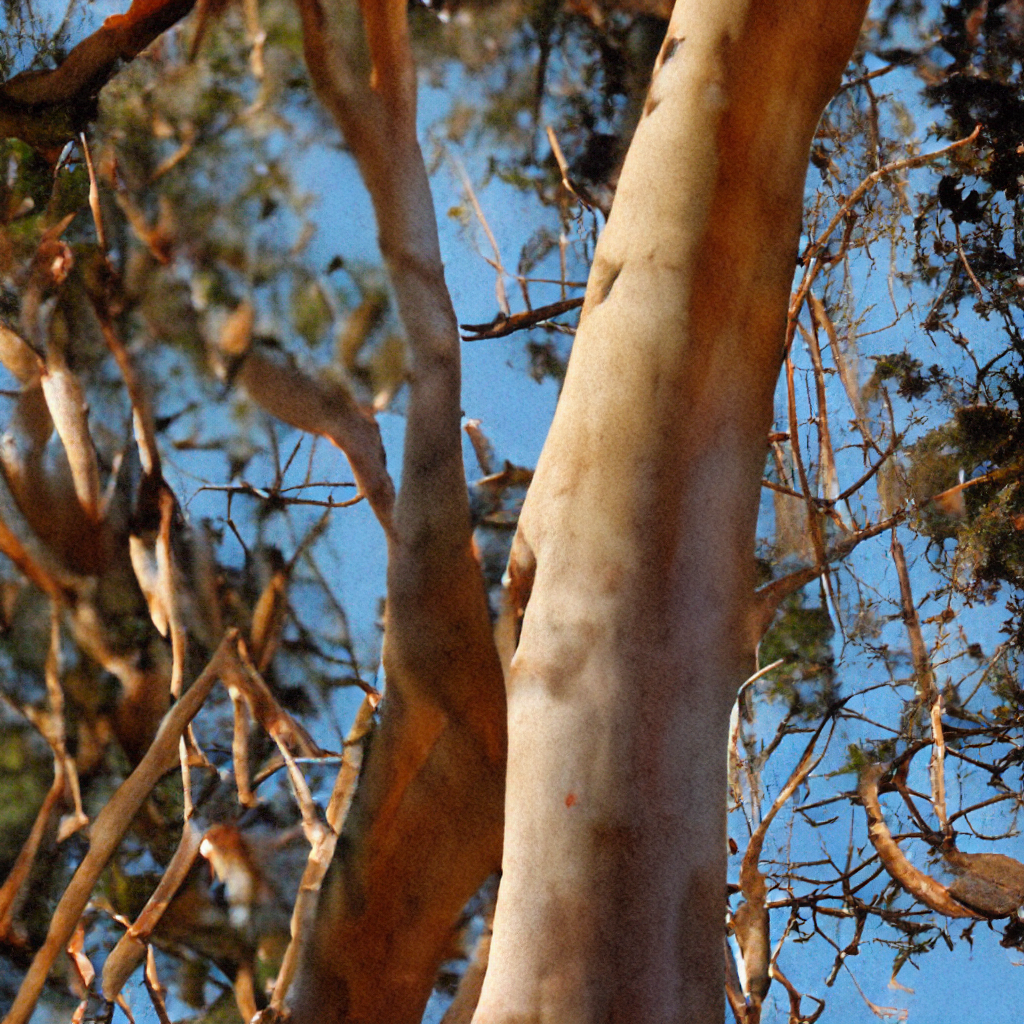
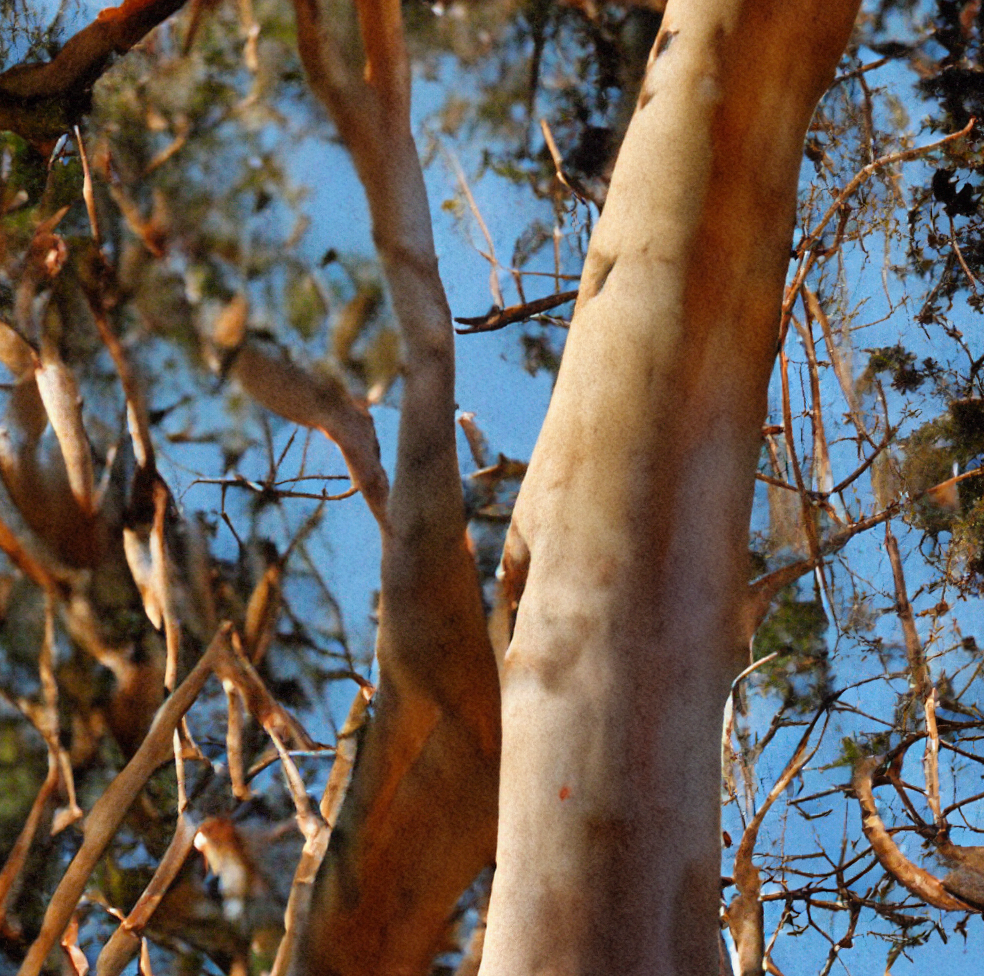
Added detailed project section

diff --git a/src/scenes/Projects.jsx b/src/scenes/Projects.jsx
@@ -1,5 +1,5 @@
 import { motion } from "framer-motion";
-import { useState } from "react";
+// import { useState } from "react";
 import AnchorLink from "react-anchor-link-smooth-scroll";
 
 const container = {
@@ -16,44 +16,24 @@ const projectVariant = {
   visible: { opacity: 1, scale: 1 },
 };
 
-const Project = ({ title, selectedPage, setSelectedPage }) => {
-  const projectTitle = title;
-  const [isPopupToggled, setPopupToggle] = useState(false);
-  console.log(selectedPage)
+const Project = ({ title, setSelectedProject }) => {
+  const project = title.split('.')[0].toLowerCase()
 
   return (
-    <motion.div variants={projectVariant} className="relative">
-      <AnchorLink href="#about">
+    <motion.div
+      variants={projectVariant}
+      className="relative">
+      <AnchorLink href="#details">
         <img
+            onClick={() => setSelectedProject(title)}
             className = "cursor-pointer border-2 sm:hover:scale-105 duration-700"
-            src={`../assets/${projectTitle}`} alt={projectTitle}/>
+            src={`../assets/${title}`} alt={project}/>
       </AnchorLink>
-
-      {/* MORE INFO POPUP */}
-      {isPopupToggled && (
-        <div className="z-50 inset-0 fixed h-screen w-screen m-auto backdrop-blur-sm">
-          <div className="z-60 fixed h-4/6 w-5/6 m-auto rounded-3xl inset-0 p-8 bg-beige">
-            {/* CLOSE ICON */}
-            <div className="flex justify-end">
-              <button onClick={() => setPopupToggle(!isPopupToggled)}>
-                <img alt="close-icon" src="../assets/close-icon-black.svg" />
-              </button>
-            </div>
-
-            <div className="flex flex-col justify-center items-center text-xl gap-10 text-black font-sans font-regular">
-              <p className="m-12">
-                Curabitur arcu erat, accumsan id imperdiet et, porttitor at sem. Nulla
-                porttitor accumsan tincidunt.
-              </p>
-            </div>
-          </div>
-        </div>
-        )}
     </motion.div>
   );
 };
 
-const Projects = ({ selectedPage, setSelectedPage }) => {
+const Projects = ( { setSelectedProject } ) => {
   return (
       <div className="flex justify-center">
         <motion.div
@@ -63,34 +43,29 @@ const Projects = ({ selectedPage, setSelectedPage }) => {
           whileInView="visible"
           viewport={{ once: true, amount: 0.2 }}
         >
-          {/* ROW 1 */}
           <div
             className="row-span-3 col-span-3">
             <Project
               title="bioanalytics.png"
-              selectedPage={selectedPage}
-              setSelectedPage={setSelectedPage}/>
+              setSelectedProject={setSelectedProject}/>
           </div>
           <div
             className="row-span-1 col-span-2">
             <Project
               title="tiles.gif"
-              selectedPage={selectedPage}
-              setSelectedPage={setSelectedPage}/>
+              setSelectedProject={setSelectedProject}/>
           </div>
           <div 
             className="row-span-2 col-span-4">
             <Project
-              title="gum_2.png"
-              selectedPage={selectedPage}
-              setSelectedPage={setSelectedPage}/>
+              title="gum.png"
+              setSelectedProject={setSelectedProject}/>
           </div>
           <div
             className="row-span-1 col-span-2">
             <Project
-              title="drawing_1.png"
-              selectedPage={selectedPage}
-              setSelectedPage={setSelectedPage}/>
+              title="drawing.png"
+              setSelectedProject={setSelectedProject}/>
           </div>
         </motion.div>
       </div>

diff --git a/src/scenes/ProjectDetails.jsx b/src/scenes/ProjectDetails.jsx
@@ -1,0 +1,35 @@
+// import { motion } from "framer-motion";
+import AnchorLink from "react-anchor-link-smooth-scroll";
+
+const ProjectDetails = ( { selectedProject } ) => {
+
+	return (
+	  <section id="details">
+				<div className="z-50 h-full w-full">
+					<div className="h-[85%] w-full rounded-3xl absolute border-green border-4">
+							<AnchorLink href="#work" className="z-50 absolute right-0 pr-14 pt-8">
+										<img alt="up-chevron" src="../assets/up-chevron.svg" />
+							</AnchorLink>
+						<div className="h-full flex justify-between items-center">
+								<img
+								className = "h-4/5 pl-12 min-h-0 cursor-pointer"
+								src={`../assets/${selectedProject}`}/>
+								<p className="p-12 text-green">
+										{/* Curabitur arcu erat, accumsan id imperdiet et, porttitor at sem. Nulla
+										porttitor accumsan tincidunt.	Curabitur arcu erat, accumsan id imperdiet et, porttitor at sem. Nulla
+										porttitor accumsan tincidunt.
+										Curabitur arcu erat, accumsan id imperdiet et, porttitor at sem. Nulla
+										porttitor accumsan tincidunt.	Curabitur arcu erat, accumsan id imperdiet et, porttitor at sem. Nulla
+										porttitor accumsan tincidunt.
+										Curabitur arcu erat, accumsan id imperdiet et, porttitor at sem. Nulla
+										porttitor accumsan tincidunt.	Curabitur arcu erat, accumsan id imperdiet et, porttitor at sem. Nulla
+										porttitor accumsan tincidunt. */}
+								</p>
+						</div>
+					</div>
+				</div>
+	  </section>
+	);
+  };
+  
+  export default ProjectDetails;

diff --git a/src/App.js b/src/App.js
@@ -3,10 +3,12 @@ import { motion } from "framer-motion";
 // import useMediaQuery from "./hooks/useMediaQuery";
 import { useState } from "react";
 import Projects from "./scenes/Projects";
-import About from "./scenes/About";
+import ProjectDetails from "./scenes/ProjectDetails";
 
 function App() {
   const [selectedPage, setSelectedPage] = useState("work");
+  const [selectedProject, setSelectedProject] = useState(`bioanalytics.png`);
+
   // const isDesktop = useMediaQuery("(min-width: 948px)");
   return (
     <div className="app bg-black">
@@ -23,12 +25,12 @@ function App() {
               margin="0 0 -200px 0"
               amount="all"
             >
-              <Projects selectedPage={selectedPage} setSelectedPage={setSelectedPage} />
+              <Projects setSelectedProject={setSelectedProject}/>
             </motion.div>
           </div>
         </section>
       </div>
-      <About/>
+        <ProjectDetails selectedProject={selectedProject}/>
     </div>
   );
 }

diff --git a/src/scenes/About.jsx b/src/scenes/About.jsx
@@ -2,7 +2,7 @@ const About = () => {
 	return (
 	  <section id="about">
 			<div className="z-80 h-full w-full">
-				<div className="h-[90%] w-full rounded-t-full absolute border-stone-400 bg-green">
+				<div className="h-[85%] w-full rounded-3xl absolute border-green border-4">
 						<div className="pt-36 m-12 rounded-t-full flex flex-col justify-center items-center text-xl text-black font-sans font-regular">
 							<p className="m-12 rounded-t-full">
 									Curabitur arcu erat, accumsan id imperdiet et, porttitor at sem. Nulla
